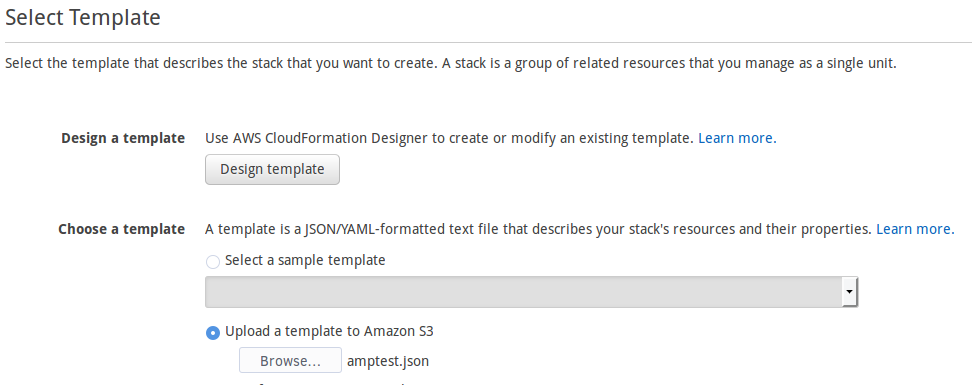
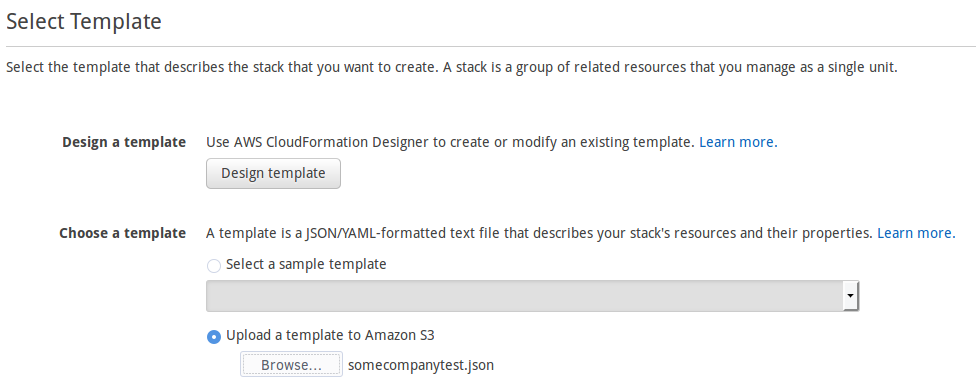
multiple fixes
fine renaming to hide comp name, screenshots update and added require between exec steps

diff --git a/README.md b/README.md
@@ -82,11 +82,6 @@ http://stackoverflow.com/questions/1349047/show-pending-migrations-in-rails
 https://phaseshiftllc.com/articles/2012/03/19/setting-up-vagrant-with-rvm-and-mysql-for-rails-development.html
 http://jsonlint.com/
 
-### Issues and trobleshooting:
-
-https://github.com/flapjack/omnibus-flapjack/issues/72
-https://ask.puppet.com/question/2177/how-to-execute-source-command/
-
 ### CloudFormation:
 
 https://gist.github.com/gene1wood/a00d0b9d029f40e866df
@@ -95,3 +90,9 @@ https://github.com/Accenture/adop-docker-compose
 ###README:
 
 https://github.com/adam-p/markdown-here/wiki/Markdown-Cheatsheet
+
+### Issues and trobleshooting:
+
+https://github.com/flapjack/omnibus-flapjack/issues/72
+https://ask.puppet.com/question/2177/how-to-execute-source-command/
+http://stackoverflow.com/questions/23287357/already-activated-rake-version-different-than-what-gemfile-requires-prevents-rak
